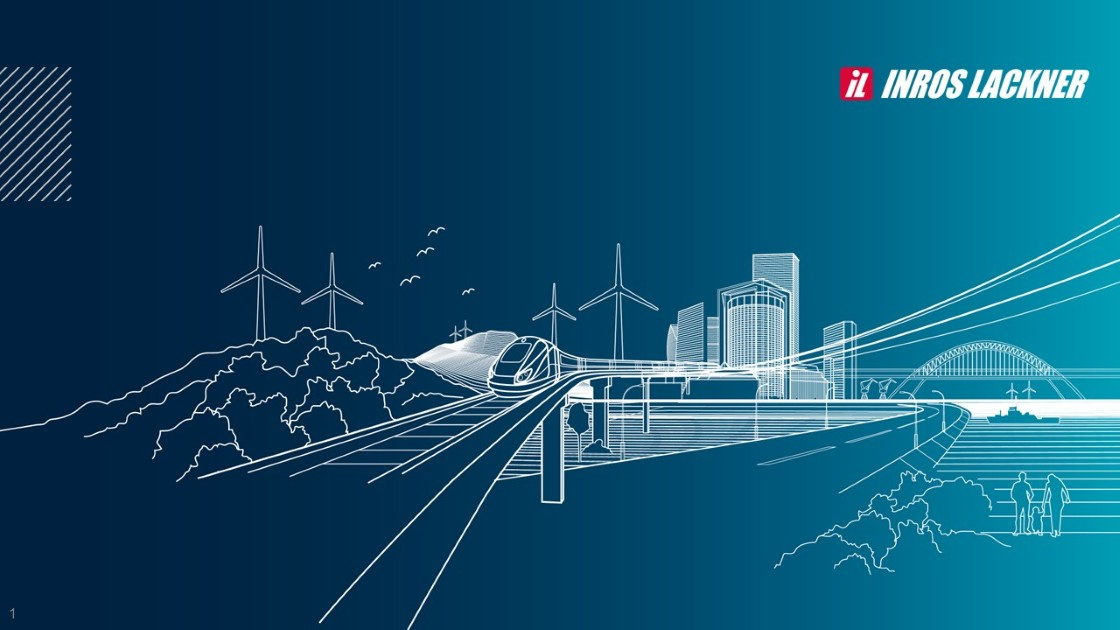
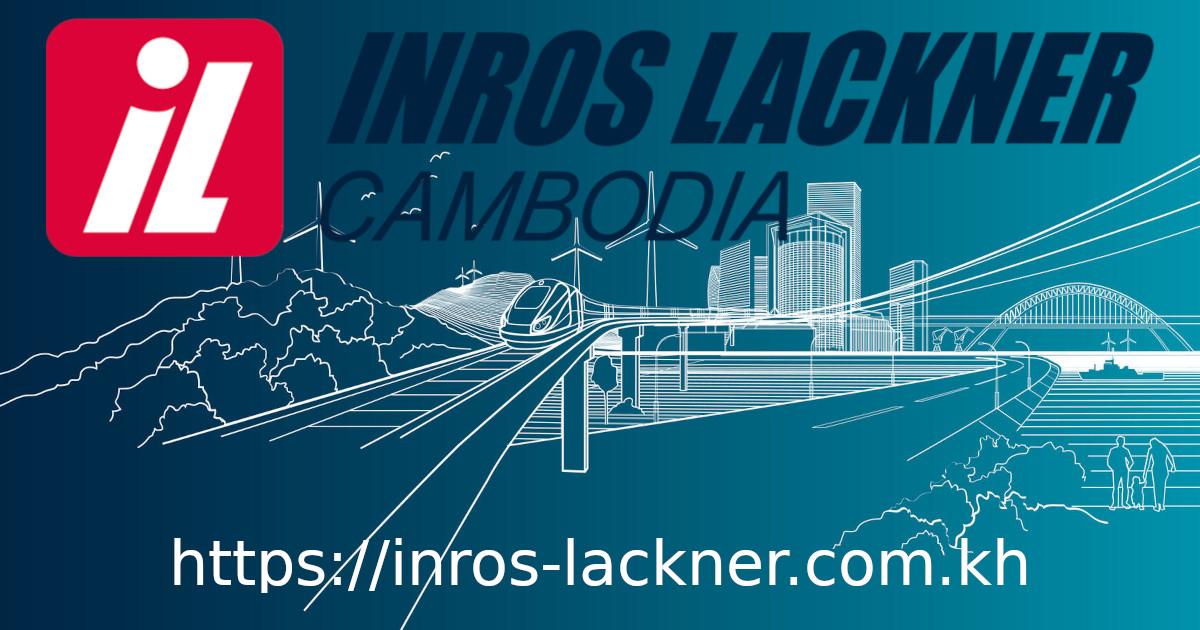
chore: update og-image

diff --git a/app/layout.tsx b/app/layout.tsx
@@ -19,21 +19,21 @@ export const metadata = {
   metadataBase: new URL('https://inros-lackner.com.kh'),
   title: {
     template: '%s | Inros Lackner Cambodia',
-    default: 'Inros Lackner Cambodia – Engineering Consultancy in Cambodia',
+    default: 'Inros Lackner Cambodia | Civil Engineering Consultancy',
   },
-  description: 'Inros Lackner (Cambodia) Co., Ltd. (ILKH) is a multi-disciplinary engineering consultancy in Cambodia offering structural engineering, geotechnical investigations, topographic surveys, BIM, construction supervision, and infrastructure planning services in Phnom Penh and across Cambodia.',
-  keywords: 'engineering consultancy Cambodia, civil engineering Cambodia, structural engineering Cambodia, geotechnical engineering Cambodia, topographic survey Cambodia, construction supervision Cambodia, infrastructure design Cambodia, environmental engineering Cambodia, project management Cambodia, Phnom Penh engineering firm, BIM Cambodia, geophysical investigations Cambodia, GIS mapping Cambodia',
+  description: 'Inros Lackner (Cambodia) provides world-class engineering consultancy, from BIM and structural design to geotechnical surveys. Engineering excellence for Cambodia’s infrastructure.',
+  keywords: 'engineering consultancy Cambodia, civil engineering Cambodia, structural engineering Cambodia, geotechnical engineering Cambodia, topographic survey Cambodia, construction supervision Cambodia, infrastructure design Cambodia, environmental engineering Cambodia, project management Cambodia, Phnom Penh engineering firm, BIM Cambodia, geophysical investigations Cambodia, GIS mapping Cambodia, hydrology Cambodia, geology Cambodia, hydrogeology Cambodia',
   openGraph: {
-    title: 'Inros Lackner Cambodia – Engineering Consultancy',
+    title: 'Inros Lackner Cambodia – Civil Engineering Consultancy',
     description: 'International engineering know-how and local expertise for Cambodia’s built environment.',
     url: 'https://inros-lackner.com.kh',
     siteName: 'Inros Lackner Cambodia',
     images: [
       {
         url: '/images/og-image.jpg',
-        width: 1120,
+        width: 1200,
         height: 630,
-        alt: 'Inros Lackner Cambodia – Engineering Consultancy',
+        alt: 'Inros Lackner Cambodia – Civil Engineering Consultancy',
       },
     ],
     locale: 'en_US',
@@ -41,8 +41,8 @@ export const metadata = {
   },
   twitter: {
     card: 'summary_large_image',
-    title: 'Inros Lackner Cambodia – Engineering Consultancy',
-    description: 'Multi-disciplinary engineering consultancy in Cambodia. Structural, geotechnical, surveying, and infrastructure services.',
+    title: 'Inros Lackner Cambodia – Civil Engineering Consultancy',
+    description: 'Multi-disciplinary engineering consultancy in Cambodia. Civil, Structural, Geotechnical, Surveying, and Infrastructure services.',
     images: ['/images/og-image.jpg'],
   },
   robots: {

diff --git a/app/(default)/page.tsx b/app/(default)/page.tsx
@@ -1,6 +1,6 @@
 export const metadata = {
-  title: 'Engineering Consultancy in Cambodia',
-  description: 'Inros Lackner Cambodia (ILKH) delivers multi-disciplinary engineering services in Cambodia: civil engineering, structural engineering, geotechnical investigations, topographic surveys, BIM, construction supervision, and infrastructure planning.',
+  title: 'Inros Lackner Cambodia | Civil Engineering Consultancy',
+  description: 'Inros Lackner Cambodia delivers multi-disciplinary engineering services in Cambodia: civil engineering, structural engineering, geotechnical investigations, topographic surveys, BIM, construction supervision, and infrastructure planning.',
   alternates: {
     canonical: '/',
   },

diff --git a/global.d.ts b/global.d.ts
@@ -1,0 +1,1 @@
+declare module '*.css';
